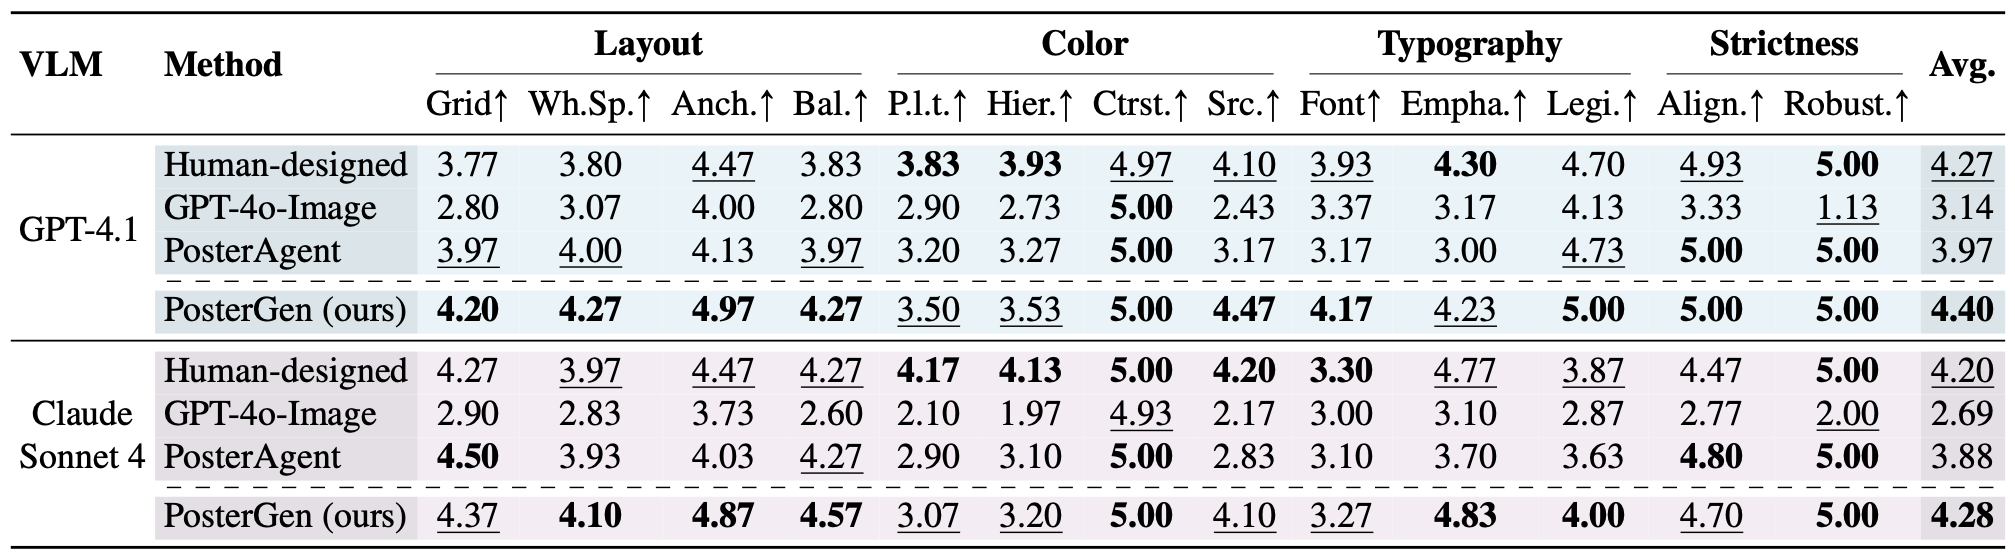
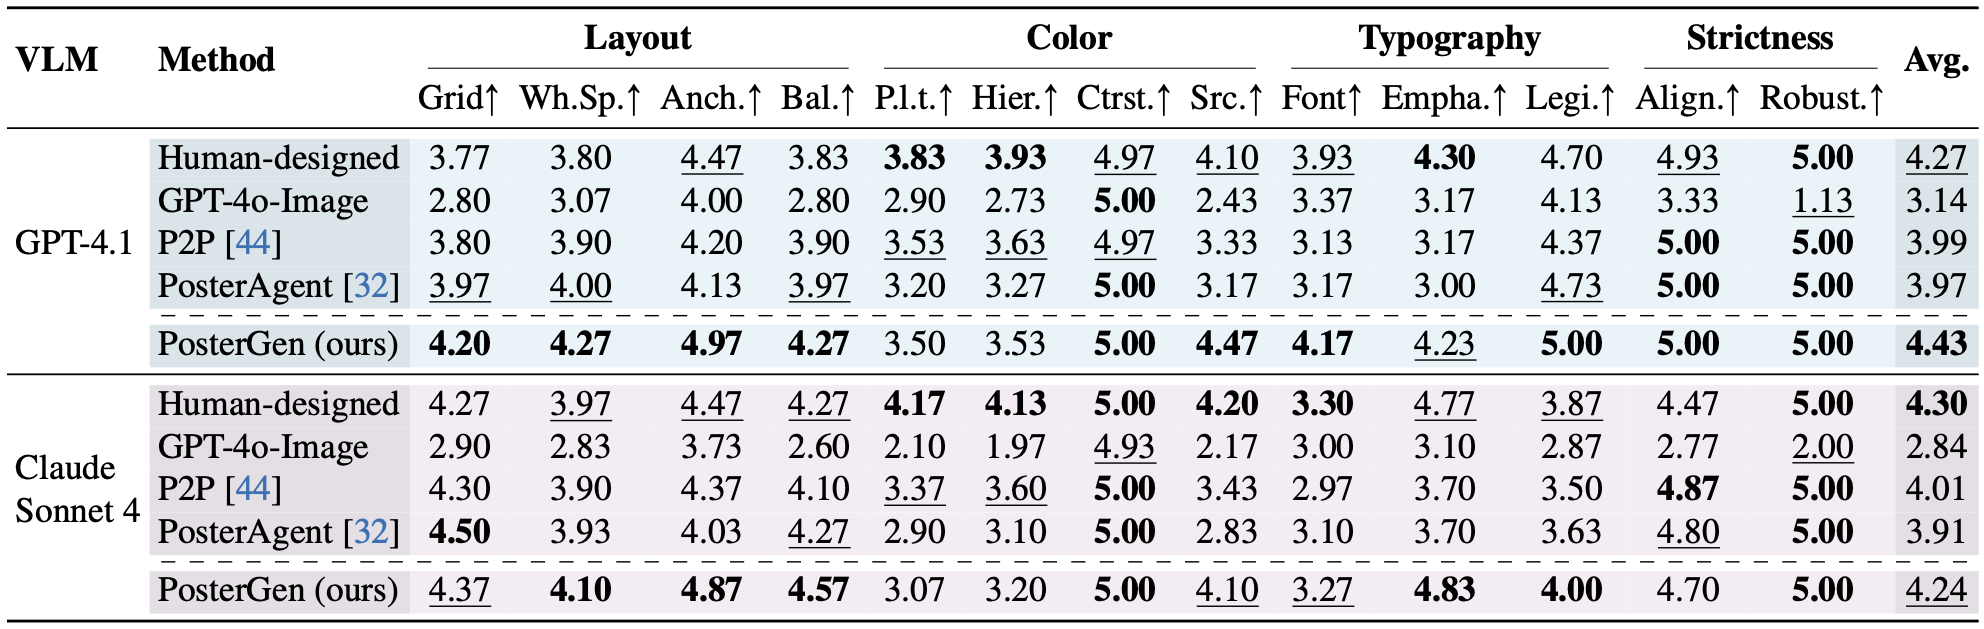
Update CR

Changed region(s): [[0.0, 0.5161, 1.0, 1.0], [0.0, 0.0, 1.0, 0.4857], [0.0, 0.0607, 0.1562, 0.1518]]

diff --git a/index.html b/index.html
@@ -3,7 +3,7 @@
 
 <head>
     <meta charset="utf-8">
-    <title>PosterGen: Aesthetic-Aware Paper-to-Poster Generation via Multi-Agent LLMs</title>
+    <title>PosterGen: Aesthetic-Aware Multi-Modal Paper-to-Poster Generation via Multi-Agent LLMs</title>
     <meta name="viewport" content="width=device-width,initial-scale=1">
     <link href="./css/vendors/aos.css" rel="stylesheet">
     <link href="./style.css" rel="stylesheet">
@@ -176,9 +176,9 @@
                                     </h1>
                                 </div>
                                 <!-- Second line: Subtitle -->
-                                <h2 class="text-3xl md:text-4xl font-extrabold leading-tighter tracking-tighter whitespace-nowrap"
+                                <h2 class="text-3xl md:text-4xl font-extrabold leading-tighter tracking-tighter text-center"
                                     style="color: #333; margin-bottom: 2.5rem;">
-                                    <em>Aesthetic-Aware</em> Paper-to-Poster Generation via Multi-Agent LLMs
+                                    <em>Aesthetic-Aware</em> Multi-Modal Paper-to-Poster Generation<br>via Multi-Agent LLMs
                                 </h2>
                             </div>
                             <div class="max-w-4xl mx-auto">
@@ -206,6 +206,9 @@
                                         University&nbsp;&nbsp;&nbsp;&nbsp;<sup>3</sup>University of British Columbia<br>
                                         <sup>4</sup>Zhejiang University&nbsp;&nbsp;&nbsp;&nbsp;<sup>5</sup>University of
                                         California, Los Angeles&nbsp;&nbsp;&nbsp;&nbsp;<sup>★</sup>Equal Contribution
+                                    </p>
+                                    <p class="text-2xl font-semibold text-center mt-6 mb-2" style="color: #333;">
+                                        Findings of CVPR 2026
                                     </p>
                                 </div>
                                 <div class="flex flex-wrap justify-center gap-4 md:gap-6" data-aos="zoom-y-out"
@@ -346,7 +349,7 @@
                         <!-- Section header -->
                         <div class="max-w-4xl mx-auto pb-12 md:pb-16">
                             <h1 class="h2 mb-4 text-center">Abstract</h1>
-                            <p class="text-xl text-gray-600">Multi-agent systems built on large language models (LLMs) and multimodal large language models (MLLMs) have recently shown strong capabilities on complex compositional tasks. We apply this paradigm to paper-to-poster generation, a practical but time-consuming step in research communication. Most of existing methods ignore core design and aesthetic principles, and often produce posters that still require substantial manual refinement. To address these limitations, we propose <em>PosterGen</em>, a multi-agent framework that embeds fundamental design principles into a specialized agent workflow that mirrors professional designers. Our system incorporates collaborative agents to distill a paper's narrative (CuratorAgent), map content to a balanced spatial layout (LayoutAgent), apply a cohesive visual system of color and typography (StylistAgents), and render the final poster in PPTX format (Renderer). This design-centric approach produces posters that are both semantically grounded and visually compelling. To systematically evaluate visual quality, we introduce a comprehensive VLM-based rubric measuring information fidelity and aesthetic design, which we validate against human preferences in a user study. Experimental results show that PosterGen achieves both content fidelity and design aesthetics comparable to human-designed posters while significantly and consistently outperforming state-of-the-art methods.
+                            <p class="text-xl text-gray-600">Multi-agent systems built on large language models (LLMs) and multimodal large language models (MLLMs) have recently shown strong capabilities on complex compositional tasks. We apply this paradigm to paper-to-poster generation, a practical but time-consuming step in research communication. Most of the existing methods ignore core design and aesthetic principles, and often produce posters that still require substantial manual refinement. To address these limitations, we propose <em>PosterGen</em>, a multi-agent framework that embeds fundamental design principles into a specialized agent workflow that mirrors professional designers. Our system incorporates collaborative agents to distill a paper's narrative (CuratorAgent), map content to a balanced spatial layout (LayoutAgent), apply a cohesive visual system of color and typography (StylistAgents), and render the final poster in PPTX format (Renderer). This design-centric approach produces posters that are both semantically grounded and visually compelling. To systematically evaluate visual quality, we introduce a comprehensive VLM-based rubric measuring information fidelity and aesthetic design, which we validate against human preferences in a user study. Experimental results show that PosterGen achieves both content fidelity and design aesthetics comparable to human-designed posters while significantly and consistently outperforming state-of-the-art methods.
                             </p>
                         </div>
 
@@ -1104,7 +1107,7 @@
                             <div class="bg-gray-50 rounded-lg border border-gray-200 p-6">
                                 <pre
                                     class="text-sm text-gray-800 whitespace-pre-wrap overflow-x-auto font-mono leading-relaxed"><code>@article{zhang2025postergen,
-  title={Postergen: Aesthetic-aware paper-to-poster generation via multi-agent llms},
+  title={Postergen: Aesthetic-aware multi-modal paper-to-poster generation via multi-agent llms},
   author={Zhang, Zhilin and Zhang, Xiang and Wei, Jiaqi and Xu, Yiwei and You, Chenyu},
   journal={arXiv preprint arXiv:2508.17188},
   year={2025}
